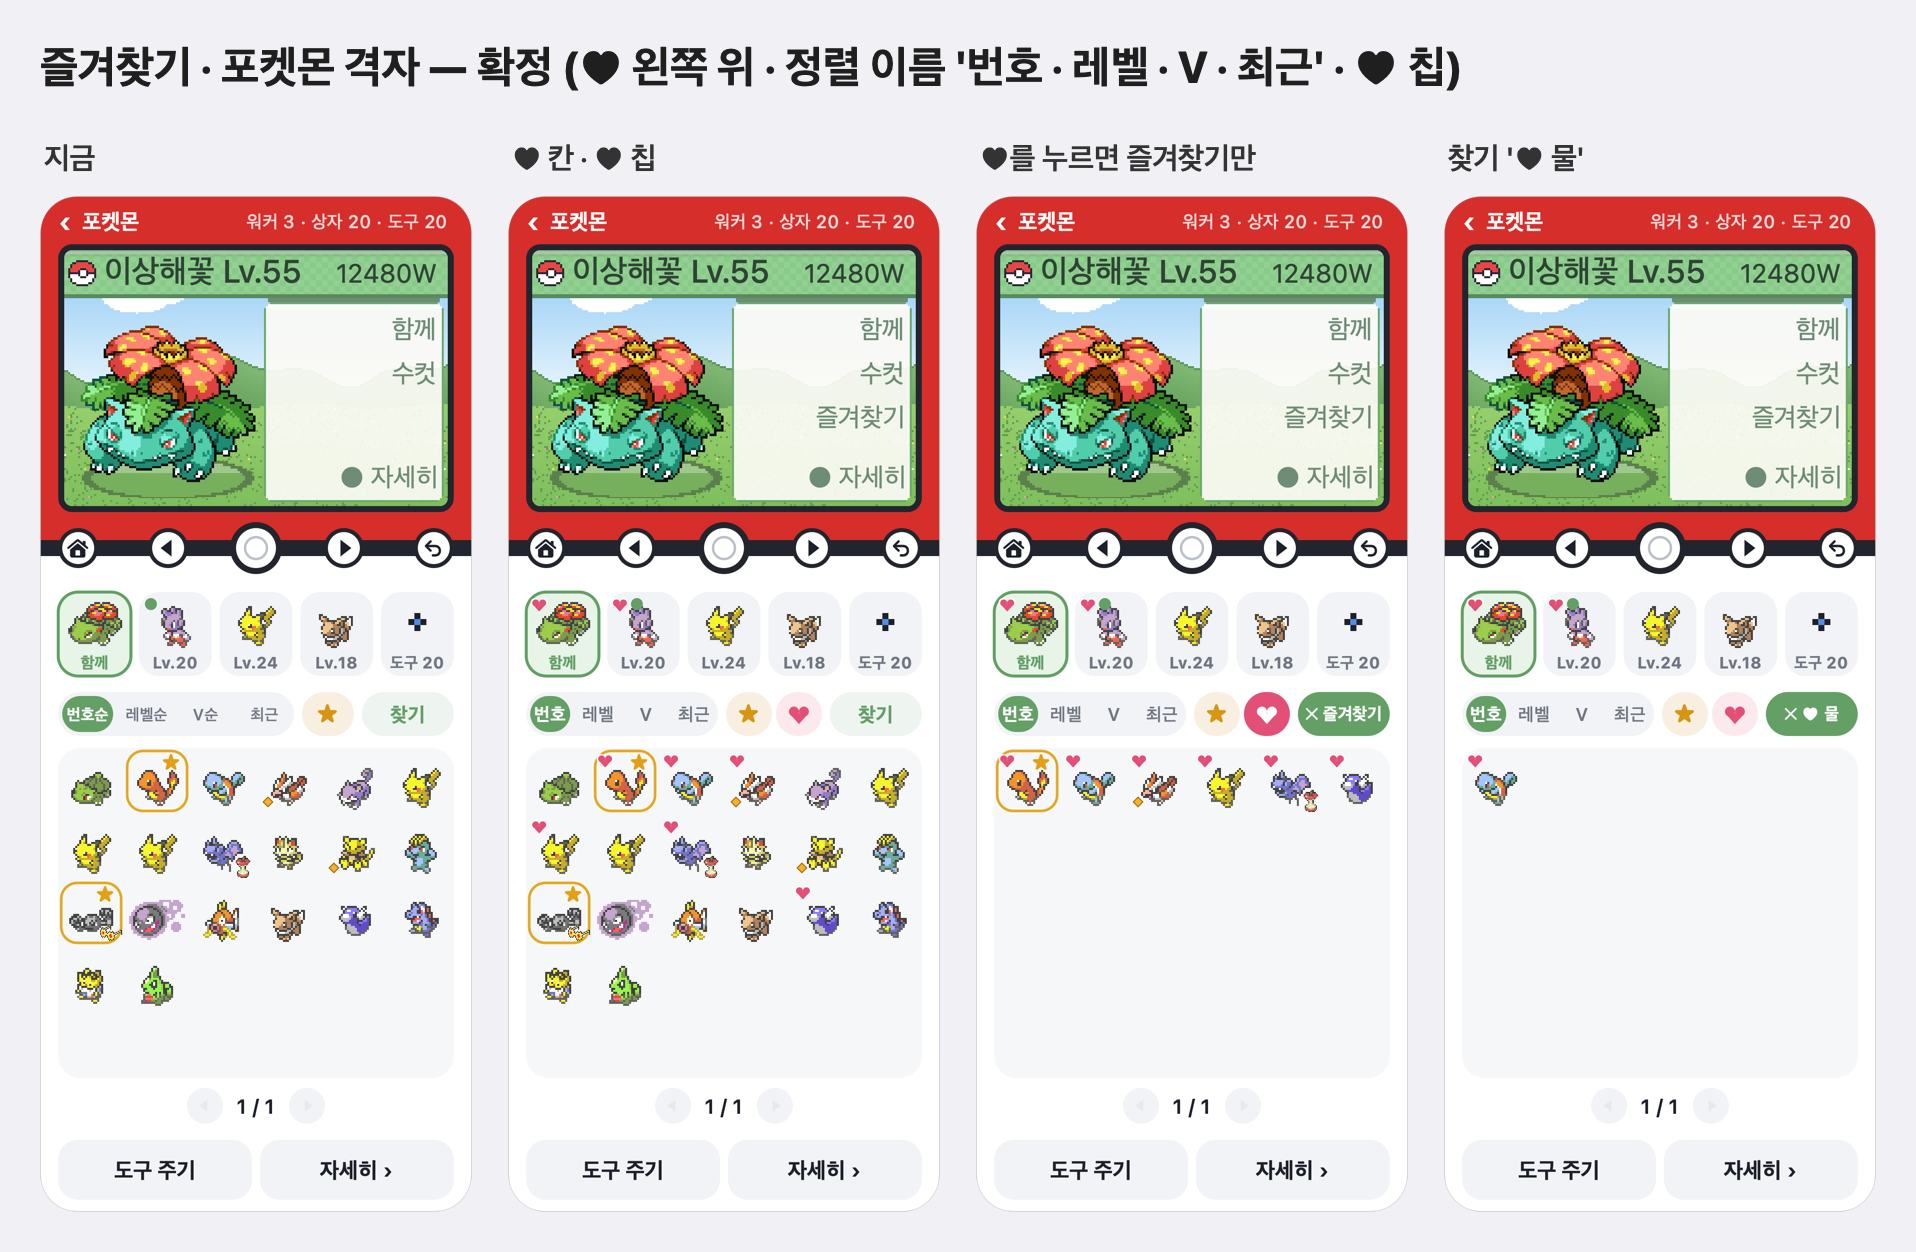
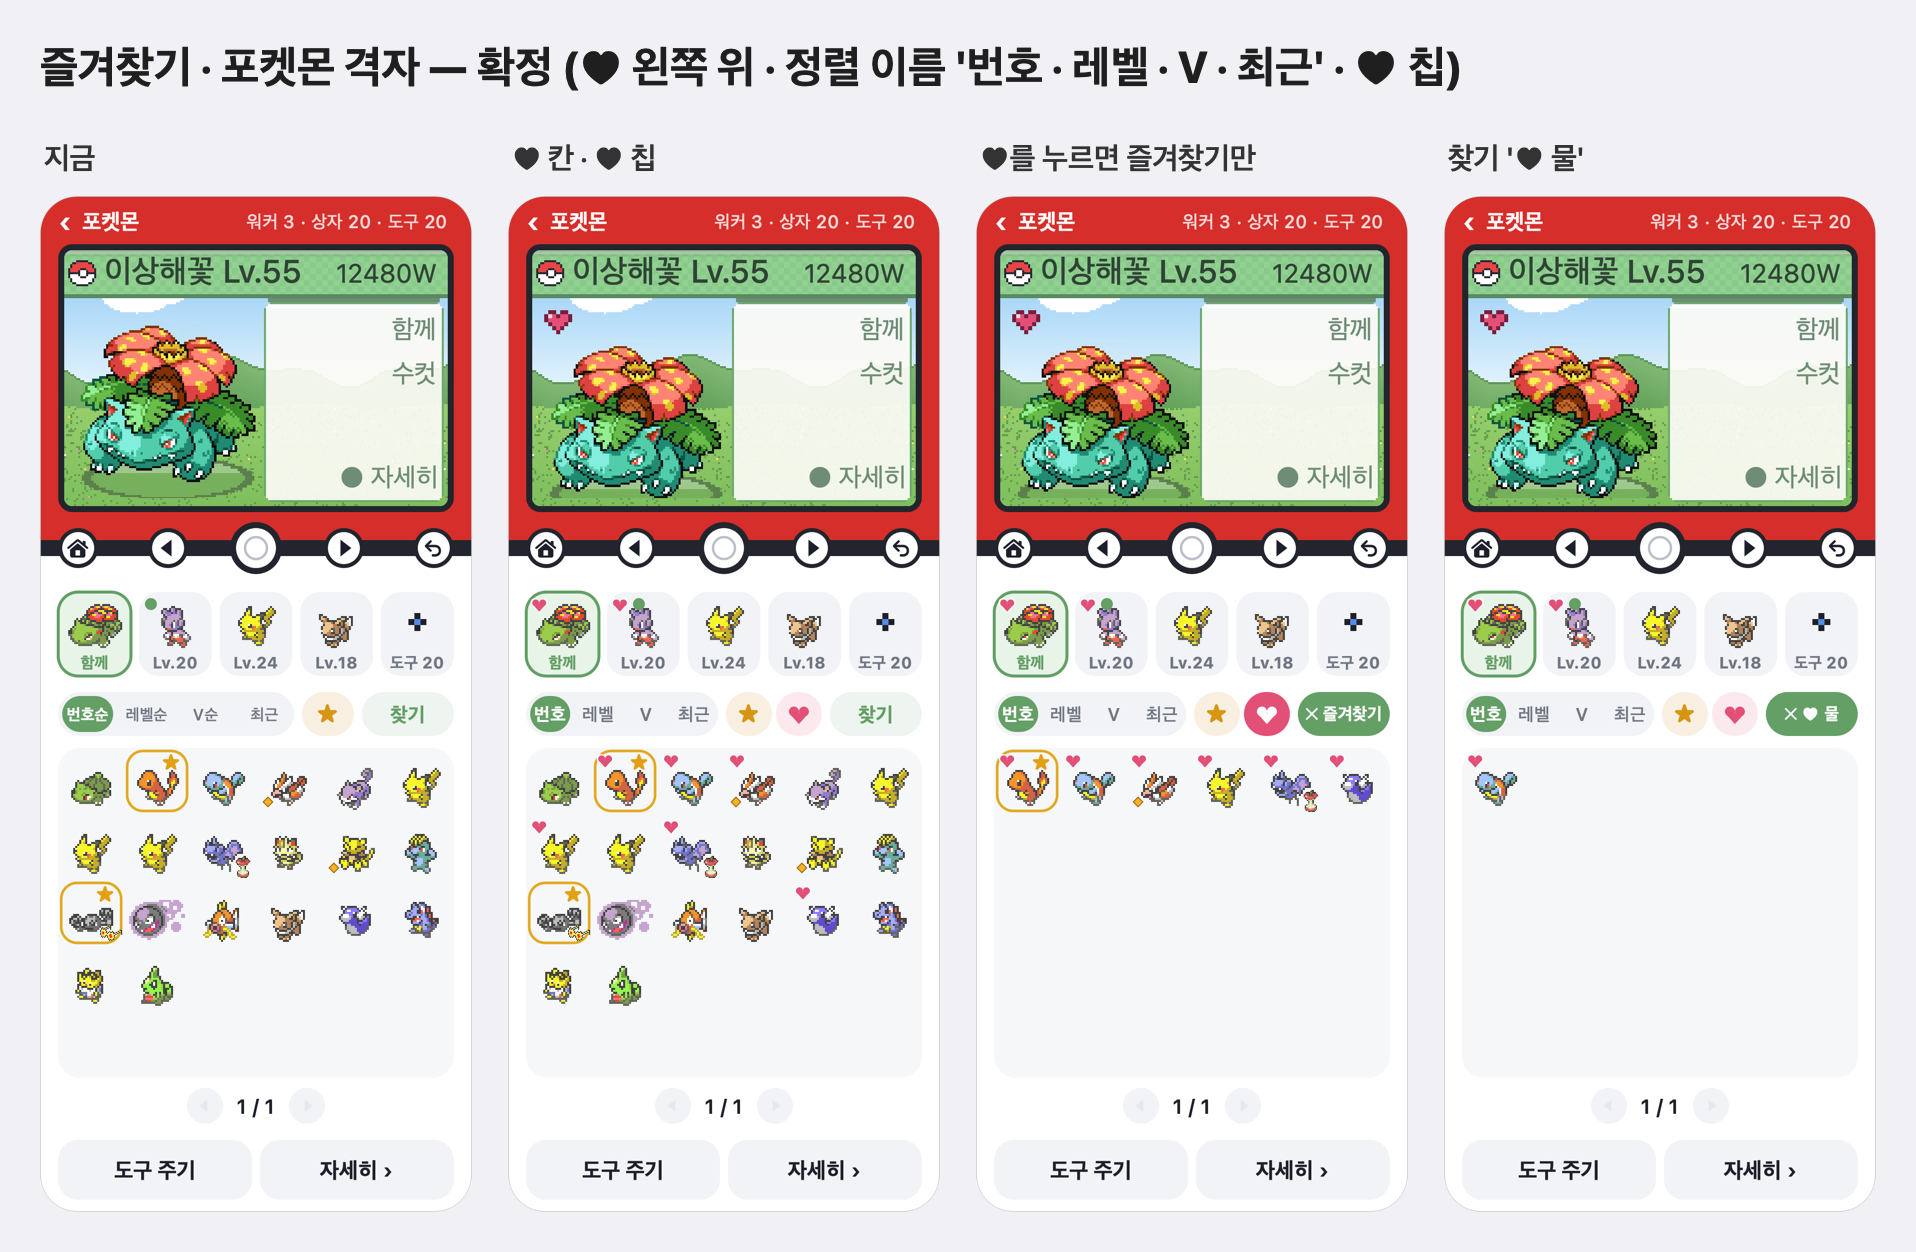
5.2.2 즐겨찾기 mockups: the worst cases (the user via 회사 10-26: "글자 겹칠것같은데 괜찮아?") — long names, two and three digits, the longest 찾기, every mark in one cell, through paneOverflow at 크기 2 · 3 · 4, the LCD as drawn and 15 % wider, and Windows' Malgun Gothic (diag runs 40271782255 · 40273716692). Found and
Claude-Session: https://claude.ai/code/session_019KTwpKn2jnYrdo4Y4LYsjs

diff --git a/docs/mockups/v5.2.1/README.md b/docs/mockups/v5.2.1/README.md
@@ -1,4 +1,6 @@
-# 5.2.1 시안: 포켓몬 즐겨찾기 — 확정
+# 5.2.2 시안: 포켓몬 즐겨찾기 — 확정
+
+> 버전: 5.2.1은 도구 꺼짐 핫픽스가 되었어요(10-26 발행). 즐겨찾기는 5.2.2예요. 폴더 이름은 링크가 바뀌지 않게 v5.2.1 그대로 둬요.
 
 **확정(사용자 10-26: 추천안 대로)** — 사용자 원문: "추천안 대로 시안 만들어줘"
 
@@ -34,6 +36,28 @@
 | `fav-3-release.png` | 놓아주기: 지금 / ♥ 포켓몬은 '풀고 놓아주기' / 중복은 ♥를 빼고 세요 / ♥ 아닌 포켓몬은 그대로 |
 | `fav-4-ask.png` | 보낼 때 한 번 더 묻는 Mac 확인 창: 글 올리기 · 도구도 지녔을 때 · 제안하기 · 1:1 교환 신청 · 글 수락 · 1:1 수락 · 중복 놓아주기 |
 | `fav-5-picks.png` | 다른 격자의 ♥: 글 올리기 · 1:1 교환 · 맡기기 · 타워 파티 · 대전 파티 |
+| `fav-6-worst.png` | 최악의 경우(Mac): 놓아주기 버튼(중복 12 · 110마리, ♥ · ♥ 아님) / 긴 찾기 |
+| `fav-7-lcd.png` | 최악의 경우(Mac) LCD: 동료 · 워커 3 · 상자 123/150 · 폼 · 무성별 + 폼 · 가장 긴 이름 Lv.100 |
+| `fav-8-cells.png` | 칸 표시 크게(Mac 2x): ♥ ★ ◆ 도구 · 진화 점이 한 칸에, 타워 · 대전 · 글 올리기 |
+| `fav-9-windows.png` | 같은 최악의 경우를 Windows(맑은 고딕)로 그린 것 |
+
+## 최악의 경우 확인(사용자 10-26: "글자 겹칠것같은데 괜찮아?")
+
+어떻게 봤나요
+- 긴 이름, 두 · 세 자리 수, 가장 긴 찾기, 한 칸에 모든 표시를 넣은 저장으로 시험 코드에서 그렸어요.
+- 페이지: 앱의 겹침 검사(paneOverflow)로 크기 2 · 3 · 4에서 글자 겹침, 페이지 밖, 잘림, 버튼 · 칸 경계를 봤어요.
+- LCD: 그대로, 그리고 글자를 15% 넓게 해서 화면 밖과 겹침을 봤어요.
+- Windows: 같은 장면을 GitHub의 Windows에서 맑은 고딕으로 그리고 같은 검사를 돌렸어요.
+
+| 곳 | 최악의 경우 | 찾은 것 | 고친 것 |
+|---|---|---|---|
+| 페이지 아래 버튼 | ♥ 포켓몬 놓아주기: 아니오 · 풀고 놓아주기 · 중복 12 / 110마리 | Mac은 괜찮아요. Windows는 '풀고 놓아…'로 잘렸어요(크기 2 · 4). 버튼 셋이 같은 폭이었어요. | '놓아줄까?'의 버튼 셋은 아니오를 글자 폭만큼만 두고, 나머지 둘이 남은 폭을 나눠요. 글자는 그대로예요. |
+| 정렬 줄 | 번호 · 레벨 · V · 최근 · ★ · ♥ · 찾기 '✕ ♥ 메가리자몽X 이로치 3V …' | 찾기 칩이 '✕ ♥ 메가…'로 줄어요. 칩 크기와 그리는 법은 5.2 그대로라 5.2에서도 같아요. 다른 칩과는 겹치지 않아요. | 없음 |
+| LCD 오른쪽 줄 | 함께 · 수컷 · 즐겨찾기 · 함께 걷는 중 / 워커 3 / 상자 123/150 | 폼이 있는 포켓몬에서 '즐겨찾기'가 폼 줄과 겹쳤어요: 비비용 '설원의 모양', 무성별 로토무 '히트'. | '즐겨찾기' 글자 줄을 없애고, 그림 왼쪽 위에 작은 ♥를 그려요(칸의 ♥와 같은 자리). 오른쪽 줄은 5.2와 같아요. |
+| 칸 왼쪽 위 | ♥ + 진화 고르기 점 + ★ + ◆ + 도구, 타워 · 대전의 번호 | 겹치지는 않지만 ♥와 진화 점이 거의 붙었어요. | 진화 점을 1pt 더 오른쪽으로 옮겼어요. 번호가 붙은 칸은 번호가 ♥ 자리를 덮어요(그대로). |
+| LCD 제목 | ★일레도리자드 Lv.100 + 99999W | 이름이 길면 W를 숨기는 5.0의 규칙대로라 겹치지 않아요. | 없음 |
+
+- 결과: 위 두 가지를 고친 뒤에는 Mac과 Windows 모두 페이지 · LCD에서 겹치거나 잘리는 곳이 없어요. 찾기 칩이 긴 검색어를 '…'로 줄이는 것만 남아요(5.2와 같음).
 
 ## 표시
 
@@ -41,7 +65,7 @@
   - ★ 이로치: 오른쪽 위
   - 지닌 도구: 오른쪽 아래
   - ◆ 3V: 왼쪽 아래
-  - 진화 고르기 점(배루키)은 ♥가 있으면 ♥ 오른쪽으로 비켜요.
+  - 진화 고르기 점(배루키)은 ♥가 있으면 ♥ 오른쪽으로 비켜요(최악의 경우 확인 뒤 1pt 더).
 - 하트는 글자가 아니라 도형(원 둘 + 뾰족한 끝)으로 그려요. 그래서 Windows에서도 모양이 같아요.
 - 이로치를 ★로 쓰고 있어서, 즐겨찾기는 ☆ 대신 ♡/♥로 했어요.
 
@@ -60,7 +84,7 @@
 - 버튼 줄 맨 앞에 정사각 버튼을 둬요.
   - 꺼져 있으면 회색 ♡, 켜져 있으면 분홍 ♥예요. 한 번 누를 때마다 켜고 꺼요.
   - 동료('함께 걷는 중'), 워커('상자로 보내기'), 상자('함께 걷기 · 놓아주기') 모두 같은 자리예요.
-- LCD 오른쪽 칸에 '즐겨찾기' 한 줄이 생겨요.
+- LCD에는 그림 왼쪽 위에 작은 ♥가 붙어요(글자 줄 대신: 폼 줄과 겹쳐서 바꿨어요).
 - 배틀이 걸려 있으면 ♡를 숨겨요. 서버가 배틀 중에는 거절하기 때문이에요.
 - LCD ● 메뉴(함께 · 워커로 · 놓아주기 · 닫기)에는 넣지 않아요. 그 줄에 자리가 없어요.
 
